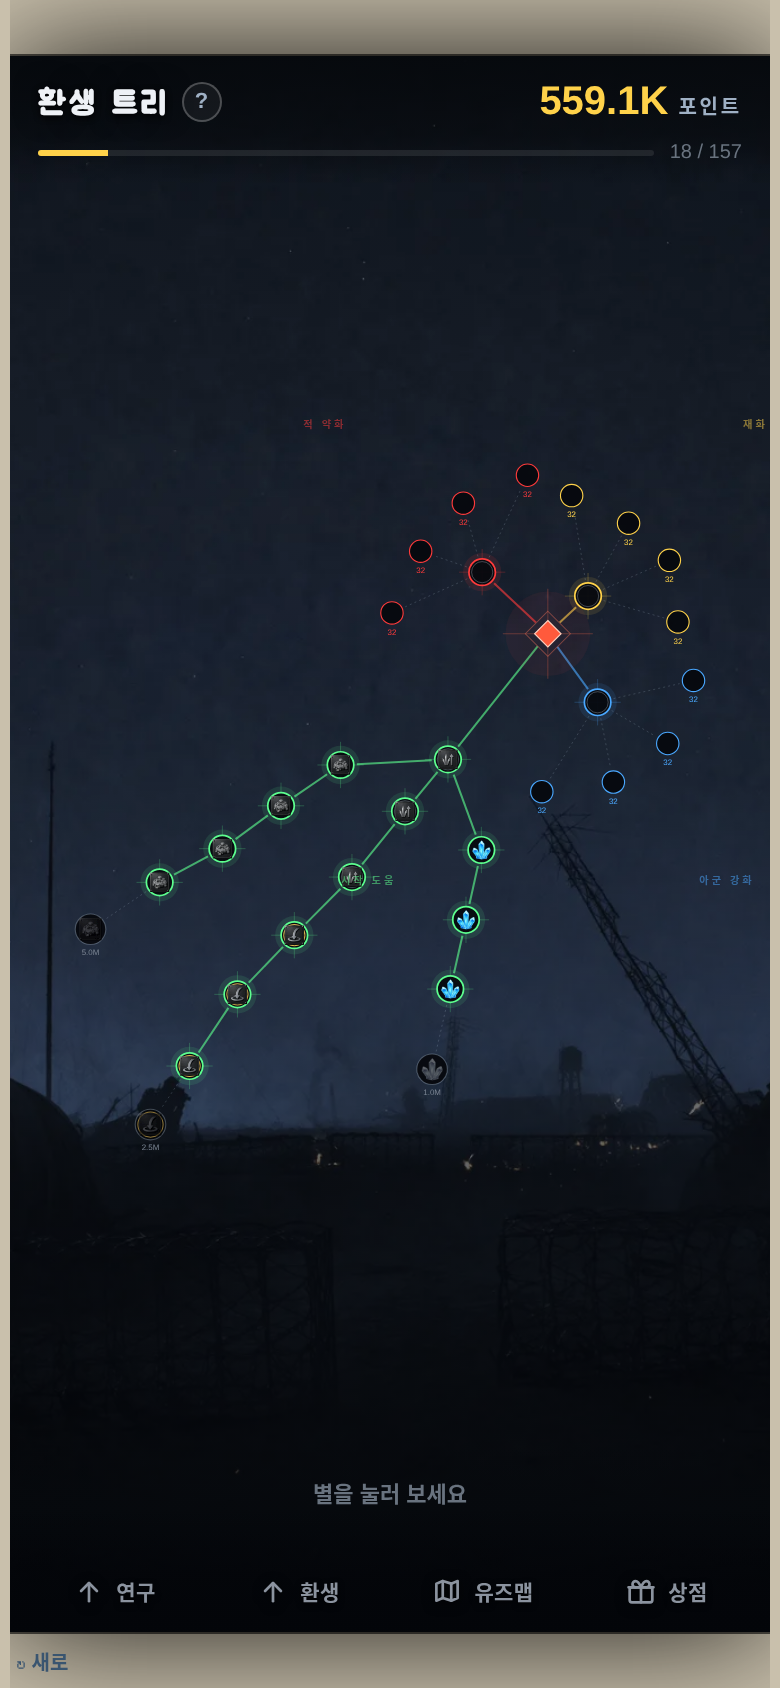
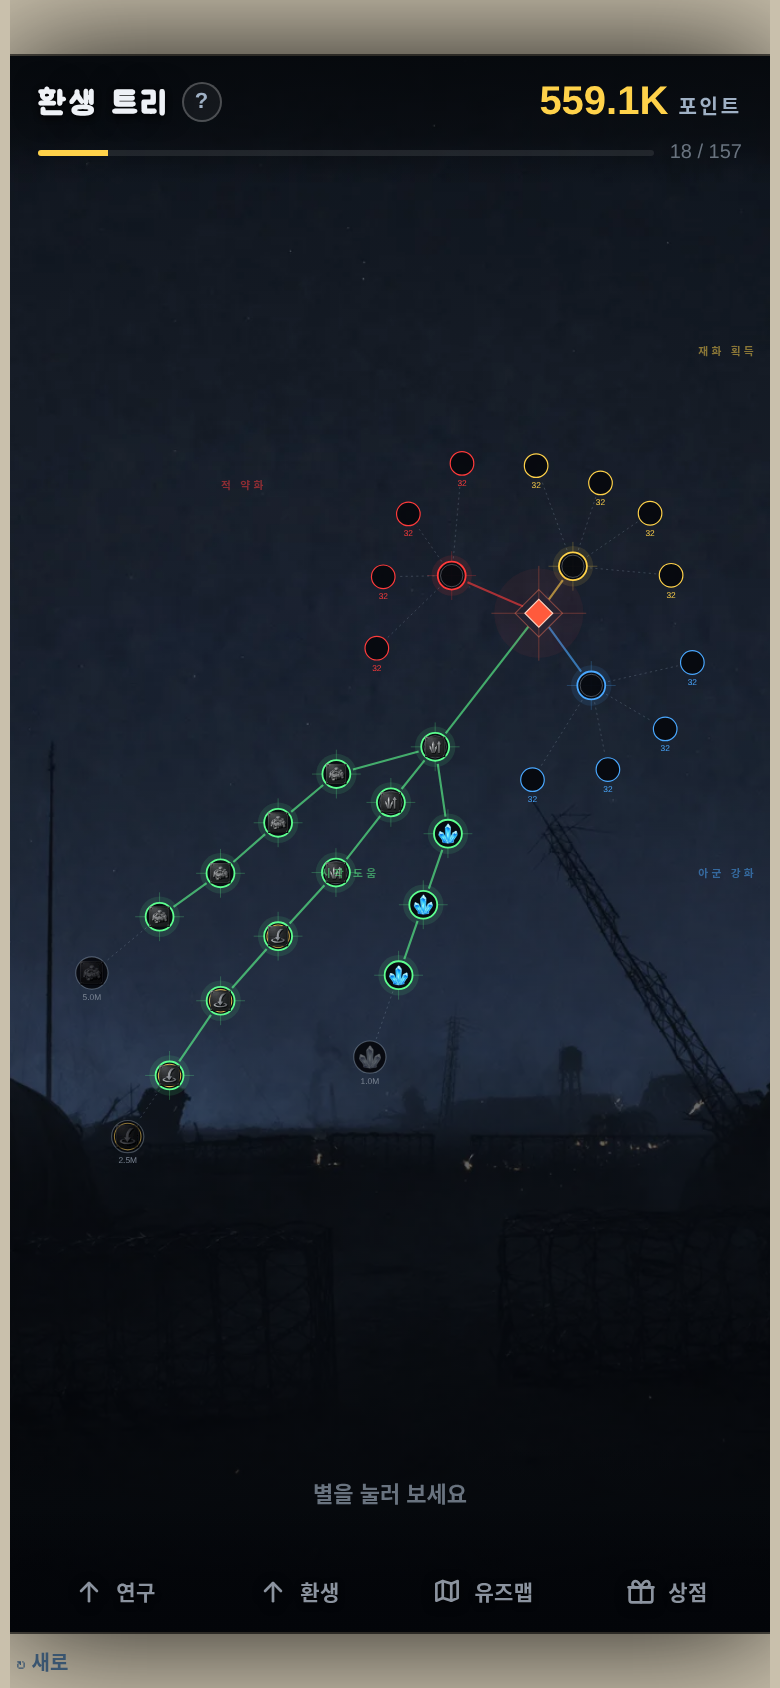
🌌 환생 트리 배치 — 갈래가 서로 안 겹치게 (최단 거리 4 → 31)
사용자 지시 셋을 그대로 적용하고, 재면서 나머지 겹침도 함께 잡았다.

지시한 것
- 초록(시작 도움) 구역을 좁힘 — CAMP_CH_GAP 78 → 56
- 빨강(적 약화)을 반시계로 — 각도 −0.76π → −0.87π
- 노랑(재화)도 이동 — −0.24π → −0.30π

재면서 함께 잡은 것 (scripts/tree-gap.mjs · 신규)
- 눈대중으로 고치면 한쪽을 떼는 순간 다른 쪽이 붙는다. 갈래끼리·갈래 안
  최단 거리를 재는 도구를 만들어 그 숫자를 보며 고쳤다.
- 묶음이 셋이 된 재화/라 안에서 별이 4 까지 겹쳐 있었다(같은 차수끼리).
- 계열 각도 흔들림이 형제 간격보다 커서 별이 제 묶음을 벗어나 이웃에
  끼어들고 있었다(±0.091rad vs ±0.083rad).

무엇을 어떻게
- 묶음 안 계열 각도를 형제 수로 나눠 **총 폭을 고정**한다(둘이든 셋이든 같은 폭).
- 같은 묶음 형제를 **반지름으로도 어긋나게** 둔다(RS × 0.50). 각도로만 벌리면
  이웃 묶음을 침범한다 — 실측에서 enemy 안이 26 → 17 로 오히려 나빠졌다.
  ⚠ 어긋남이 칸 간격의 절반을 넘으면 다른 차수끼리 같은 반지름에 앉는다
  (0.66 으로 키웠더니 22 → 17).
- 흔들림을 절반 이하로(각도 0.30 → 0.14 · 반지름 0.34 → 0.16). 별자리 느낌은
  남기되, 제 묶음을 벗어나지 않을 만큼만.

결과 — 여섯 쌍 전부 34 이상, 갈래 안 31 이상 (전: 4 · 17 · 19 · 19 · 25 · 26)

검증
- 스모크에 넣었다: 별끼리 중심 사이 30 이상 · 다른 갈래끼리는 34 이상.
- 주입 시험으로 무는 것을 확인했다(옛 각도로 → 24 / 반지름 어긋남 제거 → 18).
- 전체 스모크 통과 (lobby 158 · game 59 · sandbox 10 · duo 11).

Claude-Session: https://claude.ai/code/session_01EtmtaHFCqqHiZ1fmbN5ZoQ

diff --git a/js/19-camp.js b/js/19-camp.js
@@ -416,7 +416,7 @@ function campRtNodeOwn(key){ if(key === 'root') return campRtRootOn();
   const i = key.indexOf(':'); return campRtHas(key.slice(0, i)) >= +key.slice(i + 1); }
 // 🌌 사슬 좌표 — 부모에서 부채꼴로 뻗는다. 데이터가 정적이라 한 번 계산해 둔다.
 //   ⚠ 각도 폭을 **호 길이**(GAP)로 잡는다 — 멀어질수록 각도를 좁혀야 별 간격이 일정해진다.
-const CAMP_CH_R1 = 150, CAMP_CH_STEP = 74, CAMP_CH_GAP = 78;
+const CAMP_CH_R1 = 150, CAMP_CH_STEP = 74, CAMP_CH_GAP = 56;
 let _ctChain = null;
 function campRtChainMap(){
   if(_ctChain) return _ctChain;
@@ -582,8 +582,8 @@ function campRtFoeMul(){ let m = 1;
 //   ⚠ 갈래를 **대각선으로 돌리고 거리도 다르게** 준다. 상하좌우 축에 두면 좌우 갈래가
 //     같은 높이에 서서 중심 옆에 숫자가 한 줄로 겹친다(실측).
 const CAMP_TREE_BR = {
-  enemy:{ a:-Math.PI*0.76, rk:1.34, nm:'적 약화',   col:'#ff3b3b' },   // ↖ 멀리
-  econ: { a:-Math.PI*0.24, rk:0.82, nm:'재화 획득', col:'#ffd24a' },   // ↗ 가까이
+  enemy:{ a:-Math.PI*0.87, rk:1.34, nm:'적 약화',   col:'#ff3b3b' },   // ↖ 멀리
+  econ: { a:-Math.PI*0.30, rk:0.82, nm:'재화 획득', col:'#ffd24a' },   // ↗ 가까이
   start:{ a: Math.PI*0.70, rk:0.88, nm:'시작 도움', col:'#5dff8f' },   // ↙ 가까이
   army: { a: Math.PI*0.30, rk:1.26, nm:'아군 강화', col:'#4aa8ff' },   // ↘ 멀리
 };
@@ -621,10 +621,15 @@ function campTreePos(k, n){
   //   옛 `(li - 0.5)` 는 둘일 때만 가운데가 맞는다 — 셋이면 한쪽으로 쏠려 이웃 묶음을 침범한다.
   const sib = CAMP_RT_LINES.filter(x => x.br === L.br && x.grp === L.grp);
   const li = sib.indexOf(L);
-  const a = campTreeGpAng(L.br, L.grp) + (li - (sib.length - 1) / 2) * (CAMP_TREE_SPREAD / 3) * 0.46
-    + campTreeJit(k, n, 'a') * (CAMP_TREE_SPREAD / 3) * 0.30 * CAMP_TREE_JIT;
+  const a = campTreeGpAng(L.br, L.grp)
+    + (li - (sib.length - 1) / 2) / Math.max(1, sib.length - 1) * (CAMP_TREE_SPREAD / 3) * 0.58
+    + campTreeJit(k, n, 'a') * (CAMP_TREE_SPREAD / 3) * 0.14 * CAMP_TREE_JIT;
+  // ⭐ 같은 묶음의 형제는 **반지름도 어긋나게** 둔다(2026-09-02). 각도만으로 떼려면 묶음 폭을
+  //   넓혀야 하는데, 그러면 이웃 묶음을 침범한다 — 반지름은 이웃에게서 뺏어 오지 않는 자리다.
+  //   ⚠ 형제가 셋인 묶음(재화/라)이 생기면서 같은 차수끼리 14 까지 붙었다(실측).
   const r = CAMP_TREE_R0 * (0.80 + (B.rk || 1) * 0.22) + (n - 1) * CAMP_TREE_RS
-    + campTreeJit(k, n, 'r') * CAMP_TREE_RS * 0.34 * CAMP_TREE_JIT;
+    + (li - (sib.length - 1) / 2) * CAMP_TREE_RS * 0.50
+    + campTreeJit(k, n, 'r') * CAMP_TREE_RS * 0.16 * CAMP_TREE_JIT;
   return { x: Math.cos(a) * r, y: Math.sin(a) * r };
 }
 // 어느 별이든 자리를 하나로 — 선택 이동이 이 함수 하나만 본다

diff --git a/test/smoke.js b/test/smoke.js
@@ -2202,6 +2202,31 @@ async function groupLobby(){
         assert(Math.abs(cy-want)<12,'고른 별이 시트 위 한가운데가 아니다: '+Math.round(cy)+' vs '+Math.round(want));
         campTreeDesel(); campTreeFit(true);
         assert(campTreeSheetH()===0,'해제했는데 시트가 자리를 남긴다'); }
+      // 🌌 갈래끼리 겹치지 않는다 (2026-09-02 사용자 지시 「각 구역이 안 겹치게」)
+      //   ⭐ 좌표 함수만 부른다 — 화면 상태에 안 흔들린다. 별 지름이 26~30 이라
+      //     중심 사이가 30 을 밑돌면 **동그라미가 서로 먹는다.**
+      //   ⛔ 각도·흔들림 상수를 눈대중으로 되돌리지 말 것 — 한쪽을 떼면 다른 쪽이 붙는다.
+      //     scripts/tree-gap.mjs 로 여섯 쌍을 함께 보고 고칠 것(실측 이력: 최악 4 → 31).
+      { const pts=[];
+        for(const Ln of CAMP_RT_LINES)
+          for(let n=1,mx=campRtMax(Ln.k); n<=mx; n++){ const q=campTreePos(Ln.k,n);
+            pts.push({br:Ln.br,k:Ln.k+':'+n,x:q.x,y:q.y}); }
+        for(const bk in CAMP_TREE_BR){ if(campRtIsChain(bk)) continue;
+          const q=campTreeBrPos(bk); pts.push({br:bk,k:'br',x:q.x,y:q.y});
+          for(const g of CAMP_RT_GRP_KEYS){ if(!campRtGpLive(bk,g)) continue;
+            const w=campTreeGpPos(bk,g); pts.push({br:bk,k:'gp'+g,x:w.x,y:w.y}); } }
+        let worst=1e9, who='';
+        for(let i=0;i<pts.length;i++) for(let j=i+1;j<pts.length;j++){
+          const d=Math.hypot(pts[i].x-pts[j].x,pts[i].y-pts[j].y);
+          if(d<worst){ worst=d; who=pts[i].br+' '+pts[i].k+' ↔ '+pts[j].br+' '+pts[j].k; } }
+        assert(worst>=30,'별끼리 겹친다(중심 사이 '+worst.toFixed(0)+' · 지름 26~30): '+who);
+        // 갈래끼리는 더 넉넉해야 한다 — 색이 다른 것이 섞이면 「구역」이 안 읽힌다
+        let cross=1e9, cw='';
+        for(let i=0;i<pts.length;i++) for(let j=i+1;j<pts.length;j++){
+          if(pts[i].br===pts[j].br) continue;
+          const d=Math.hypot(pts[i].x-pts[j].x,pts[i].y-pts[j].y);
+          if(d<cross){ cross=d; cw=pts[i].br+' ↔ '+pts[j].br; } }
+        assert(cross>=34,'다른 갈래가 겹친다(중심 사이 '+cross.toFixed(0)+'): '+cw); }
       // 🔗 선이 별 **안으로 파고들지 않는다** (2026-09-02 사용자 지적)
       //   ⛔ 중심에서 중심으로 긋지 말 것. 양 끝을 반지름 + 틈만큼 물린다.
       { const g=$('ctG'); const gems=[...g.querySelectorAll('.ctGem')].map(e=>({
